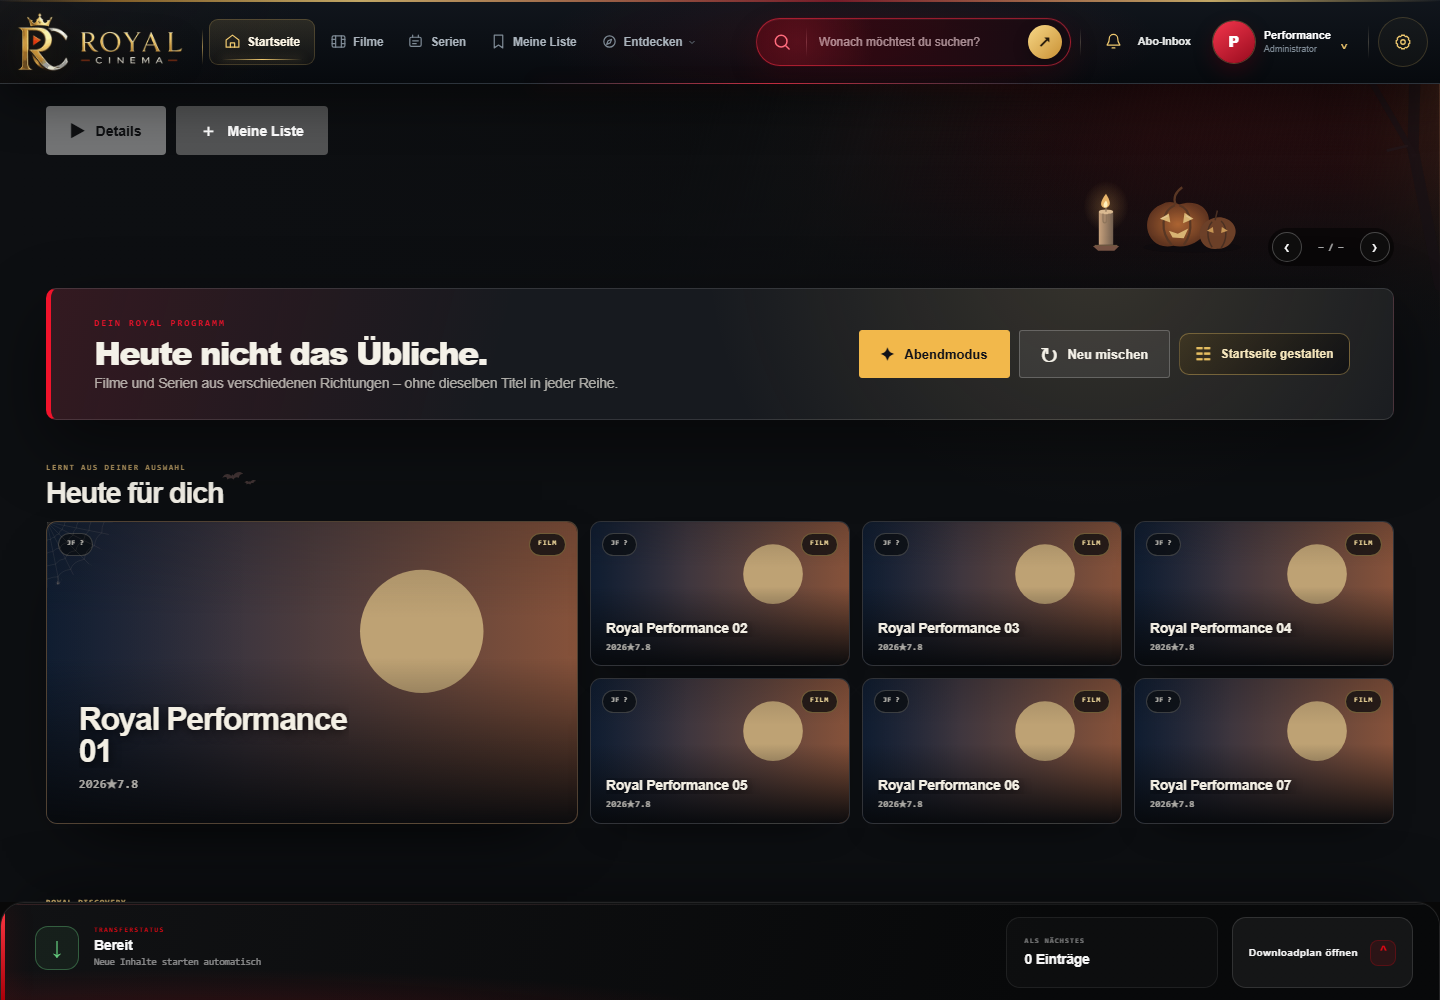
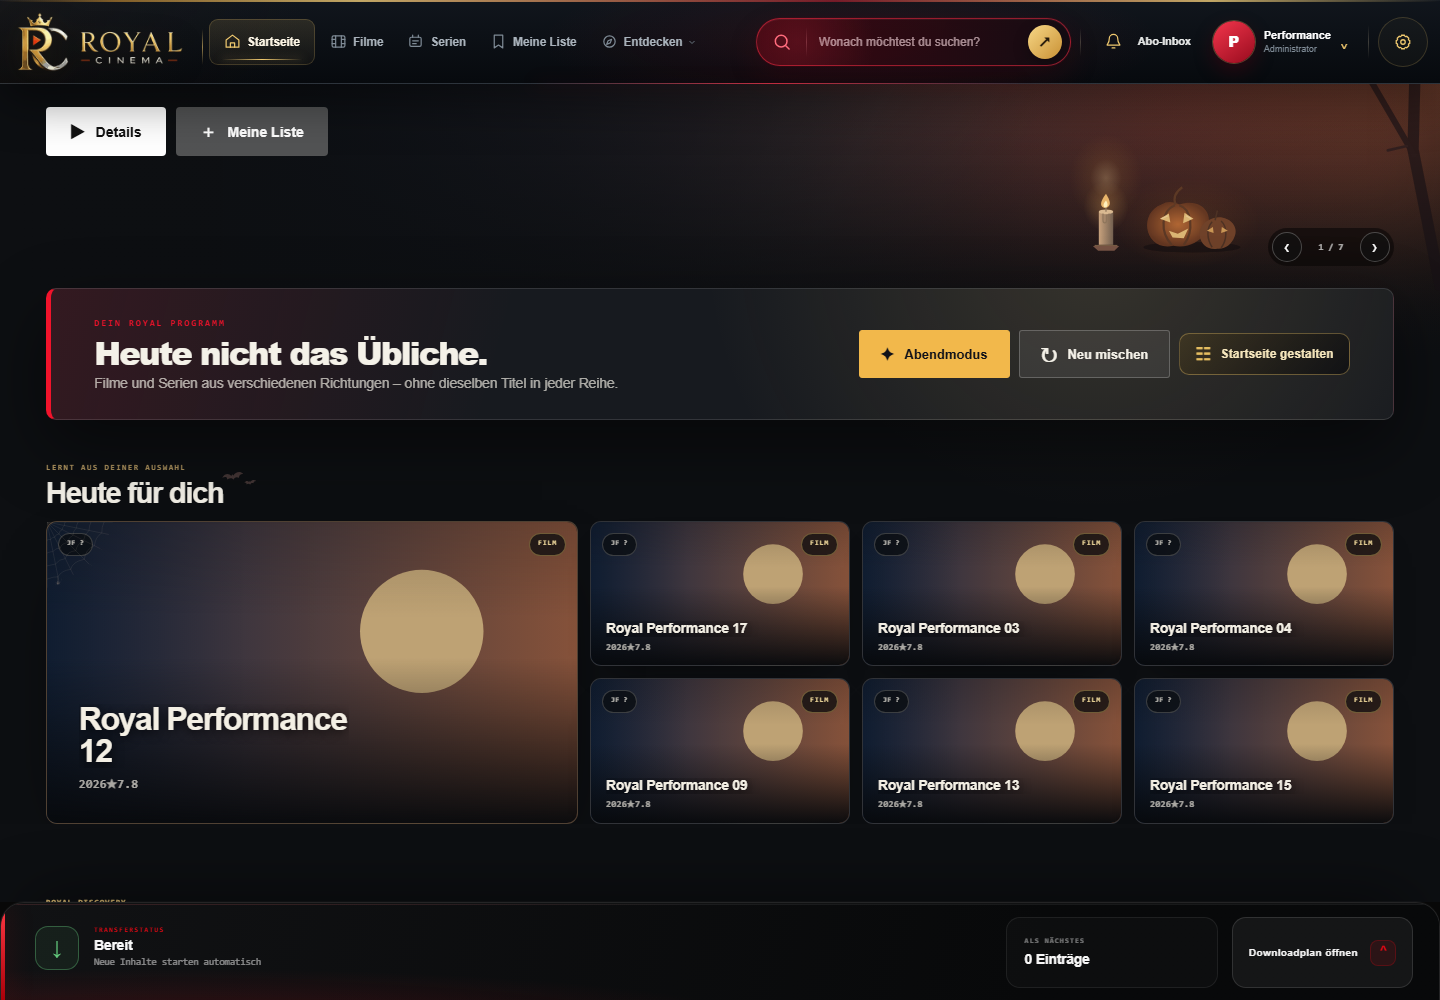
feat(home): add subtle Halloween lighting with visibility-aware pausing

diff --git a/web/styles/seasonal-events.css b/web/styles/seasonal-events.css
@@ -9,6 +9,25 @@
 #tab-home .home-event-ornaments { position: absolute; inset: 0; z-index: 4; pointer-events: none; overflow: hidden; border-radius: inherit; }
 #tab-home .home-event-ornaments img { position: absolute; display: block; pointer-events: none; object-fit: contain; }
 #tab-home .home-event-ornaments [hidden] { display: none !important; }
+/* Small light textures animate opacity only; the Hero itself is never repainted. */
+#tab-home .event-light { position: absolute; pointer-events: none; border-radius: 50%; }
+#tab-home .event-light-moon {
+  width: 260px; height: 210px; right: -70px; top: -85px;
+  background: radial-gradient(ellipse, #cdac7d38, #bf8a4320 35%, transparent 70%); opacity: .65;
+}
+#tab-home .event-light-pumpkins {
+  width: 150px; height: 95px; right: 178px; bottom: 88px;
+  background: radial-gradient(ellipse, #f4ac493d, #e67a2720 38%, transparent 70%);
+  opacity: .55; animation: event-lantern-light 5.3s ease-in-out infinite;
+}
+#tab-home .event-light-candle {
+  width: 74px; height: 90px; right: 297px; bottom: 135px;
+  background: radial-gradient(ellipse, #ffd58e70, #e59a3d25 30%, transparent 70%);
+  opacity: .7; animation: event-candle-light 3.7s ease-in-out infinite;
+}
+#tab-home[data-event-lights-paused] .event-light { animation-play-state: paused; }
+@keyframes event-lantern-light { 0%, 100% { opacity: .42; } 48% { opacity: .72; } 68% { opacity: .58; } }
+@keyframes event-candle-light { 0%, 100% { opacity: .58; } 22% { opacity: .78; } 29% { opacity: .65; } 55% { opacity: .84; } 73% { opacity: .67; } }
 #tab-home .event-web-left { width: clamp(100px, 13vw, 185px); top: 0; left: 0; opacity: .7; }
 #tab-home .event-web-right { width: 150px; right: 0; top: 0; transform: scaleX(-1); opacity: .55; }
 #tab-home .event-branch { right: 0; top: 0; height: 100%; width: 200px; opacity: .65; }
@@ -46,5 +65,9 @@
   #tab-home .event-bats { right: 44px; top: 18px; width: 82px; opacity: .55; }
   #tab-home .event-pumpkins { width: 65px; right: 20px; top: 58px; bottom: auto; }
   #tab-home .event-candle { width: 32px; right: 84px; top: 62px; bottom: auto; }
+  #tab-home .event-light-moon { width: 170px; height: 160px; right: -55px; top: -65px; }
+  #tab-home .event-light-pumpkins { width: 100px; height: 70px; right: 2px; top: 44px; bottom: auto; }
+  #tab-home .event-light-candle { width: 64px; height: 75px; right: 67px; top: 36px; bottom: auto; }
   #tab-home[data-seasonal-event="halloween"]:not([data-event-stage="1"]) .home-rail:not(.home-rail-top) .home-card:first-child::after { width: 48px; height: 48px; }
 }
+@media (prefers-reduced-motion: reduce) { #tab-home .event-light { animation: none; } }

diff --git a/web/js/features/home/seasonal-events.js b/web/js/features/home/seasonal-events.js
@@ -10,11 +10,16 @@ export function seasonalEventAt(date = new Date()) {
 
 export function createSeasonalEvents(root, { client = api, now = () => new Date() } = {}) {
   const document = root.ownerDocument, win = document.defaultView;
-  let scope = null, enabled = null, cancelMidnight = null, revision = 0;
+  let scope = null, enabled = null, cancelMidnight = null, revision = 0, heroVisible = true;
+  function syncLightVisibility() {
+    if (scope?.active && enabled && seasonalEventAt(now()) && (document.hidden || !heroVisible)) root.dataset.eventLightsPaused = "true";
+    else delete root.dataset.eventLightsPaused;
+  }
   function clear() {
     root.querySelector(".home-event-ornaments")?.remove();
     delete root.dataset.seasonalEvent;
     delete root.dataset.eventStage;
+    delete root.dataset.eventLightsPaused;
   }
   function render() {
     const event = enabled && scope?.active ? seasonalEventAt(now()) : null;
@@ -34,6 +39,7 @@ export function createSeasonalEvents(root, { client = api, now = () => new Date(
     panel.querySelectorAll("[data-event-min-stage]").forEach(node => {
       node.hidden = Number(node.dataset.eventMinStage) > event.stage;
     });
+    syncLightVisibility();
   }
   function refresh() {
     cancelMidnight?.(); cancelMidnight = null;
@@ -70,6 +76,17 @@ export function createSeasonalEvents(root, { client = api, now = () => new Date(
       void load({ signal: owner.signal }).catch(() => { /* Keep the saved state; decoration never blocks Home. */ });
       owner.listen(document, "visibilitychange", refresh);
       owner.listen(win, "pageshow", refresh);
+      const hero = root.querySelector("#home-hero");
+      heroVisible = true;
+      if (hero && win.IntersectionObserver) {
+        const observer = new win.IntersectionObserver(entries => {
+          if (!owner.active) return;
+          heroVisible = entries[0]?.isIntersecting ?? false;
+          syncLightVisibility();
+        });
+        observer.observe(hero);
+        owner.observe(observer);
+      }
     },
     unmount() { scope?.dispose(); scope = null; cancelMidnight = null; clear(); },
   };

diff --git a/web/js/features/home/halloween-art.js b/web/js/features/home/halloween-art.js
@@ -1,5 +1,8 @@
 /** Transparent ornaments fitted to existing elements, never a separate surface. */
 export const halloweenArt = `
+<span class="event-light event-light-moon" data-event-min-stage="1"></span>
+<span class="event-light event-light-pumpkins" data-event-min-stage="3"></span>
+<span class="event-light event-light-candle" data-event-min-stage="4"></span>
 <img class="event-web event-web-left" src="/assets/events/web.svg" alt="" data-event-min-stage="1">
 <img class="event-branch" src="/assets/events/branch.svg" alt="" data-event-min-stage="2">
 <img class="event-bats" src="/assets/events/bats.svg" alt="" data-event-min-stage="2">

diff --git a/docs/SEASONAL_EVENTS.md b/docs/SEASONAL_EVENTS.md
@@ -5,10 +5,10 @@ recommendations, moving cards or intercepting clicks.
 
 Halloween runs annually on October 28–31, using the browser's local calendar:
 
-- October 28: a fine web at the existing Hero corner and a warm frame accent.
+- October 28: a fine web at the existing Hero corner and soft moonlight at its edge.
 - October 29: branches and bats at the Hero edge; small webs on the first cards.
-- October 30: pumpkins beside the Hero controls.
-- October 31: an additional corner web and a candle complete the decoration.
+- October 30: pumpkins beside the Hero controls with gently glowing lantern light.
+- October 31: an additional corner web and a candle with a subtle light flicker.
 
 The switch is under **Settings → Operation & setup → Home page events**.
 It saves immediately to `seasonal_events_enabled` in the existing settings file.
@@ -16,7 +16,11 @@ Events are enabled by default on existing installations. `GET/POST /api/ui/event
 and `/api/v1/ui/events` read and save the boolean preference without changing language.
 
 The decoration uses five small local SVG files, six image nodes and one overlay.
-There is no animation loop, particle engine, canvas or expensive blur filter.
+Three small radial-gradient light textures provide moonlight and warm candlelight.
+Only two light textures animate, using compositor opacity without animating layout,
+filters or shadows. There is no JavaScript frame loop, particle engine, canvas or blur.
+Animations pause when the Hero is offscreen or the browser is hidden; reduced-motion
+preferences use static lighting. Switching events off removes both lights and ornaments.
 Only one midnight timer is scheduled while Home is visible. Returning to Home
 or the browser checks the date again; November 1 removes all decoration.
 Leaving Home disposes listeners, cancels its timer and removes the overlay.
@@ -24,3 +28,5 @@ Leaving Home disposes listeners, cancels its timer and removes the overlay.
 Tests cover calendar boundaries, subsequent years, real settings persistence,
 failed saves, stale and cancelled reads, all four stages, mobile/desktop layout
 invariance, image loading, pointer transparency and automatic removal at midnight.
+Lighting tests assert the two opacity-only animations, offscreen/background pausing
+and static reduced-motion presentation on desktop and mobile.
